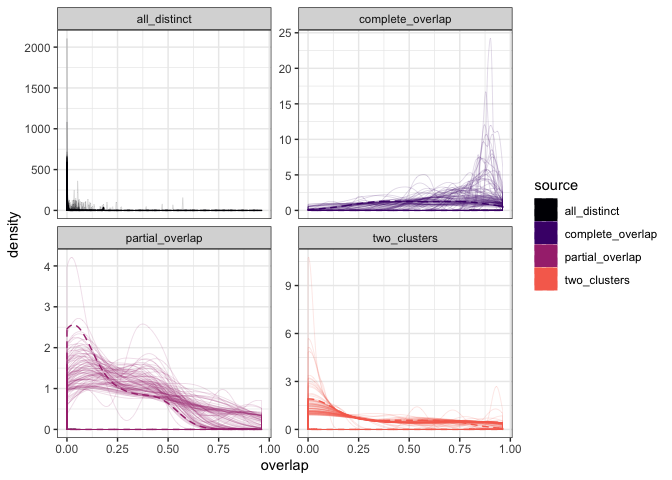
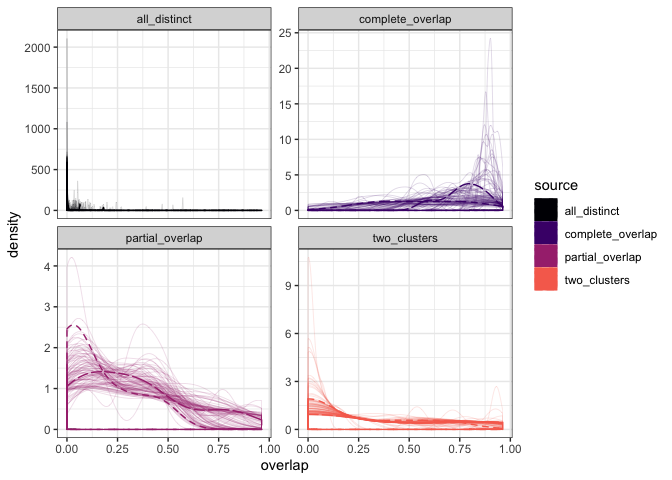
dicing the density of overlap vals

diff --git a/analysis/bootstrap_means.md b/analysis/bootstrap_means.md
@@ -41,10 +41,10 @@ resample_community <- function(community_df) {
 ```
 
 ``` r
-resampled_communities <- lapply(ls_communities, FUN = function(a_community) 
+resampled_communities_raw <- lapply(ls_communities, FUN = function(a_community) 
   return(replicate(n = 100, expr = community_overlap(resample_community(a_community)), simplify = F)))
 
-resampled_communities <- lapply(resampled_communities, FUN = function(resamples)
+resampled_communities <- lapply(resampled_communities_raw, FUN = function(resamples)
   return(bind_rows(resamples, .id = "sim")))
 
 resampled_communities <- bind_rows(resampled_communities, .id = "source") %>%
@@ -53,6 +53,17 @@ resampled_communities <- bind_rows(resampled_communities, .id = "source") %>%
 original_communities <- lapply(ls_communities, FUN = community_overlap)
 
 original_communities <- bind_rows(original_communities, .id = "source") %>%
+  mutate(sim = -99, sim_source =paste0(source, sim))
+
+ls_new_means <- lapply(ls_communities, FUN = function(community_df) 
+  return((community_df %>% group_by(species) %>% summarize(meanwgt = mean(wgt)) %>% ungroup())$meanwgt))
+new_abunds <- ls_abunds * 50 / min(ls_abunds)
+
+ls_up_error_communities <- lapply(ls_new_means, FUN = sample_community, abunds = new_abunds)
+
+ls_up_overlap <- lapply(ls_up_error_communities, FUN = community_overlap) 
+
+ls_up_overlap <- bind_rows(ls_up_overlap, .id = "source") %>%
   mutate(sim = -99, sim_source =paste0(source, sim))
 ```
 
@@ -82,16 +93,82 @@ ecdfs_plots_facetted
 
 ``` r
 hists_plots <- ggplot(data = resampled_communities, aes(x = overlap, color = source, fill = source, group = sim_source)) +
- geom_density(alpha = 0, size = .05) +
+  geom_density(alpha = 0, size = .05) +
   theme_bw()+
   facet_wrap(vars(source), scales = "free_y") +
   scale_color_viridis_d(option = "magma", end = .7) +
-    scale_fill_viridis_d(option = "magma", end = .7) +
+  scale_fill_viridis_d(option = "magma", end = .7) +
   guides(color = guide_legend(override.aes = list(alpha = 1))) +
-  geom_density(alpha = 0, data = original_communities, aes(x = overlap, group = sim_source), linetype = 2)
+  geom_density(alpha = 0, data = original_communities, aes(x = overlap, group = sim_source), linetype = 2) +
+  geom_density(alpha = 0, data = ls_up_overlap, aes(x = overlap, group = sim_source), linetype = 5)
 
 
 hists_plots
 ```
 
 ![](bootstrap_means_files/figure-markdown_github/plot%20hists-1.png)
+
+``` r
+dice_density <- function(community_overlap_df, npieces = 10) {
+  
+  overlap_density <- density(community_overlap_df$overlap, from = 0, to = 1)
+  
+  overlap_density <- data.frame(
+    val = overlap_density$x,
+    density = overlap_density$y
+  ) %>%
+    mutate(density = density / sum(density))
+  
+  dice_points <- seq(0, 1, length.out = npieces + 1)
+  
+  diced_density <- data.frame(min_x = dice_points[1:length(dice_points) - 1],
+                              max_x = dice_points[2:length(dice_points)], 
+                              sum_density = 0,
+                              mean_x = 0)
+  
+  for(i in 1:nrow(diced_density)) {
+    
+    this_section <- filter(overlap_density, val >= diced_density$min_x[i], val < diced_density$max_x[i])
+    
+    diced_density$sum_density[i] <- sum(this_section$density)
+    diced_density$mean_x[i] <- sum(diced_density$min_x[i], diced_density$max_x[i]) / 2
+    
+  }
+  
+  return(diced_density)
+  
+}
+```
+
+``` r
+diced_resamples <- lapply(resampled_communities_raw, FUN = function(list_of_community_df) return(lapply(list_of_community_df, FUN = function(community_df) return(dice_density((community_df))))))
+
+diced_original <- lapply(ls_communities, FUN = function(community_df) return(dice_density(community_overlap(community_df))))
+
+diced_up <- lapply(ls_up_error_communities, FUN = function(community_df) return(dice_density(community_overlap(community_df))))
+
+
+diced_resamples <- lapply(diced_resamples, FUN = function(diced) return(bind_rows(diced, .id = "sim")))
+
+diced_resamples <- bind_rows(diced_resamples, .id = "source")
+diced_original <- bind_rows(diced_original, .id = "source") %>%
+  mutate(sim = NA, ss = source)
+diced_up <- bind_rows(diced_up, .id = "source") %>%
+  mutate(sim = NA, ss = source)
+
+diced_resamples$ss = paste0(diced_resamples$source, diced_resamples$sim)
+```
+
+``` r
+diced_plot <- ggplot(data = diced_resamples, aes(x = mean_x, y = sum_density, color = source, group = ss)) +
+  geom_line(size = .03) +
+  theme_bw() +
+  scale_color_viridis_d(end = .7, option = "magma") +
+  geom_line(data = diced_original, linetype = 3, alpha = 1)+
+  geom_line(data = diced_up, linetype = 5, alpha = .5) +
+  facet_wrap(vars(source))
+
+diced_plot
+```
+
+![](bootstrap_means_files/figure-markdown_github/diced%20plots-1.png)
